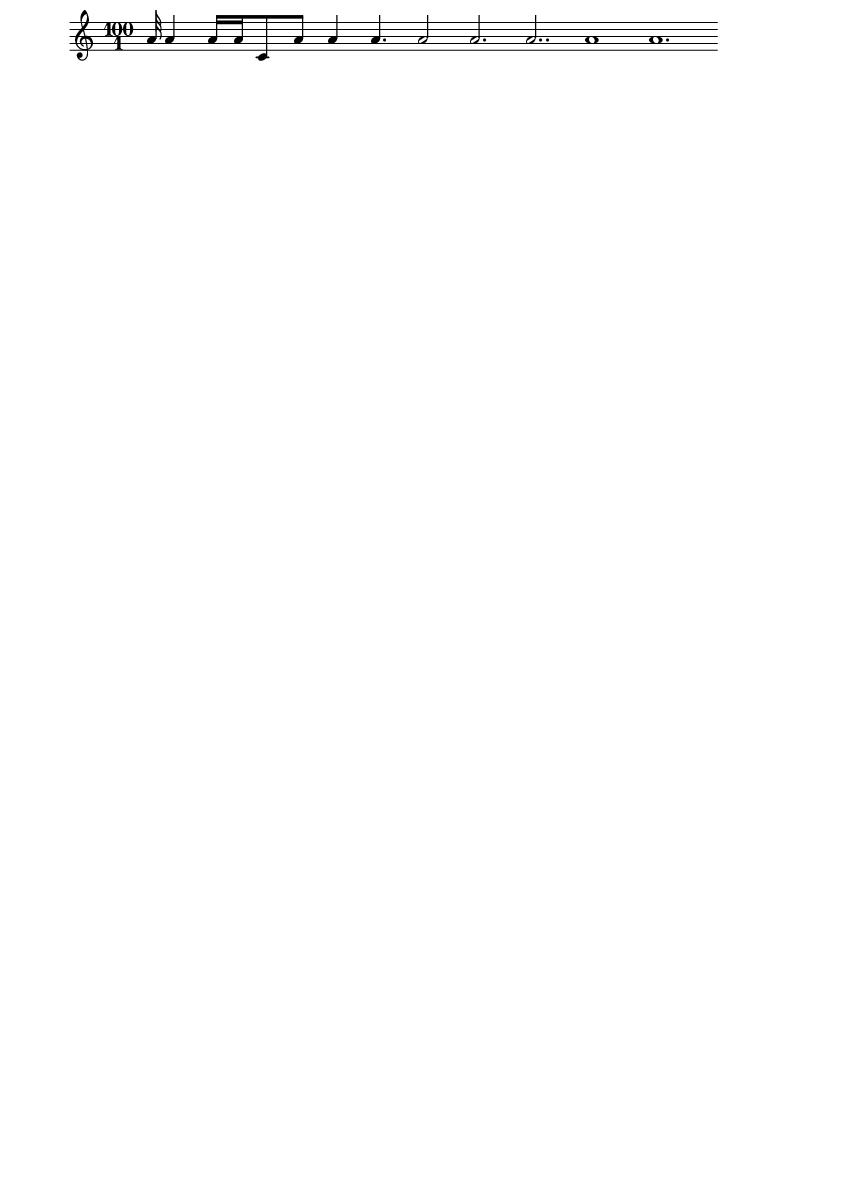
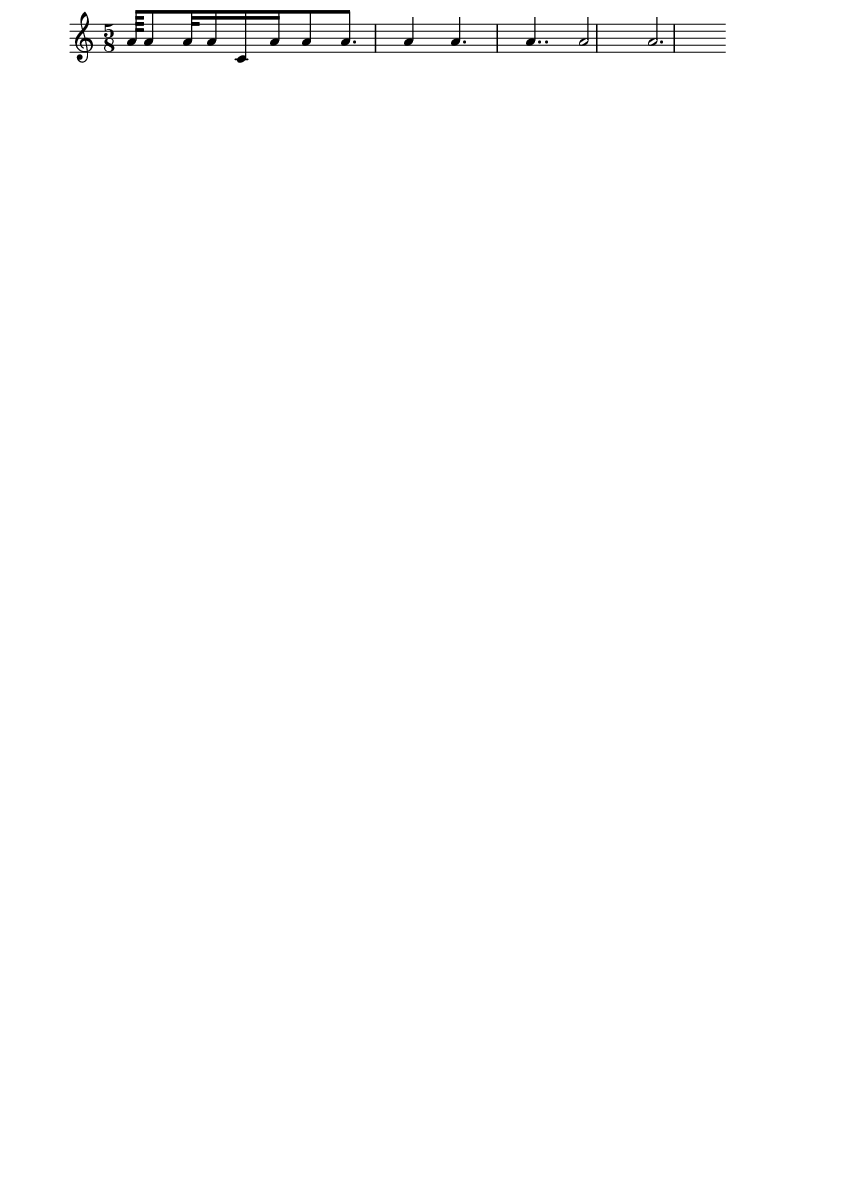
2

Changed region(s): [[0.0912, 0.0, 0.8515, 0.0616]]

diff --git a/streamlit_app.py b/streamlit_app.py
@@ -9,9 +9,9 @@ def get_size():
     return random_value
 
 string_size = get_size()
-string_size = "100/1"
+#string_size = "100/1"
 # ABC notation string
-abc_string = "X: 1 \nM: {} \nK: C \ns: !pp! ** !f! \nA/4 ||| A2 A/2 A/ **C !fff! A A2 A3 A4 A6 A7 A8 A12 ".format(string_size)
+abc_string = "X: 1 \nM: {} \nK: C \nA/4 ||| A2 A/2 A C A A2 A3 A4 A6 A7 A8 A12 ".format(string_size)
 #C D E G | G x X A z3 B Z c | "?"A [K:F] Z "?"X B | [K:A] A/4 A/2 A/ A A2 A3 A4 A6 A7 A8 A12 |
 
 #us = environment.UserSettings()
